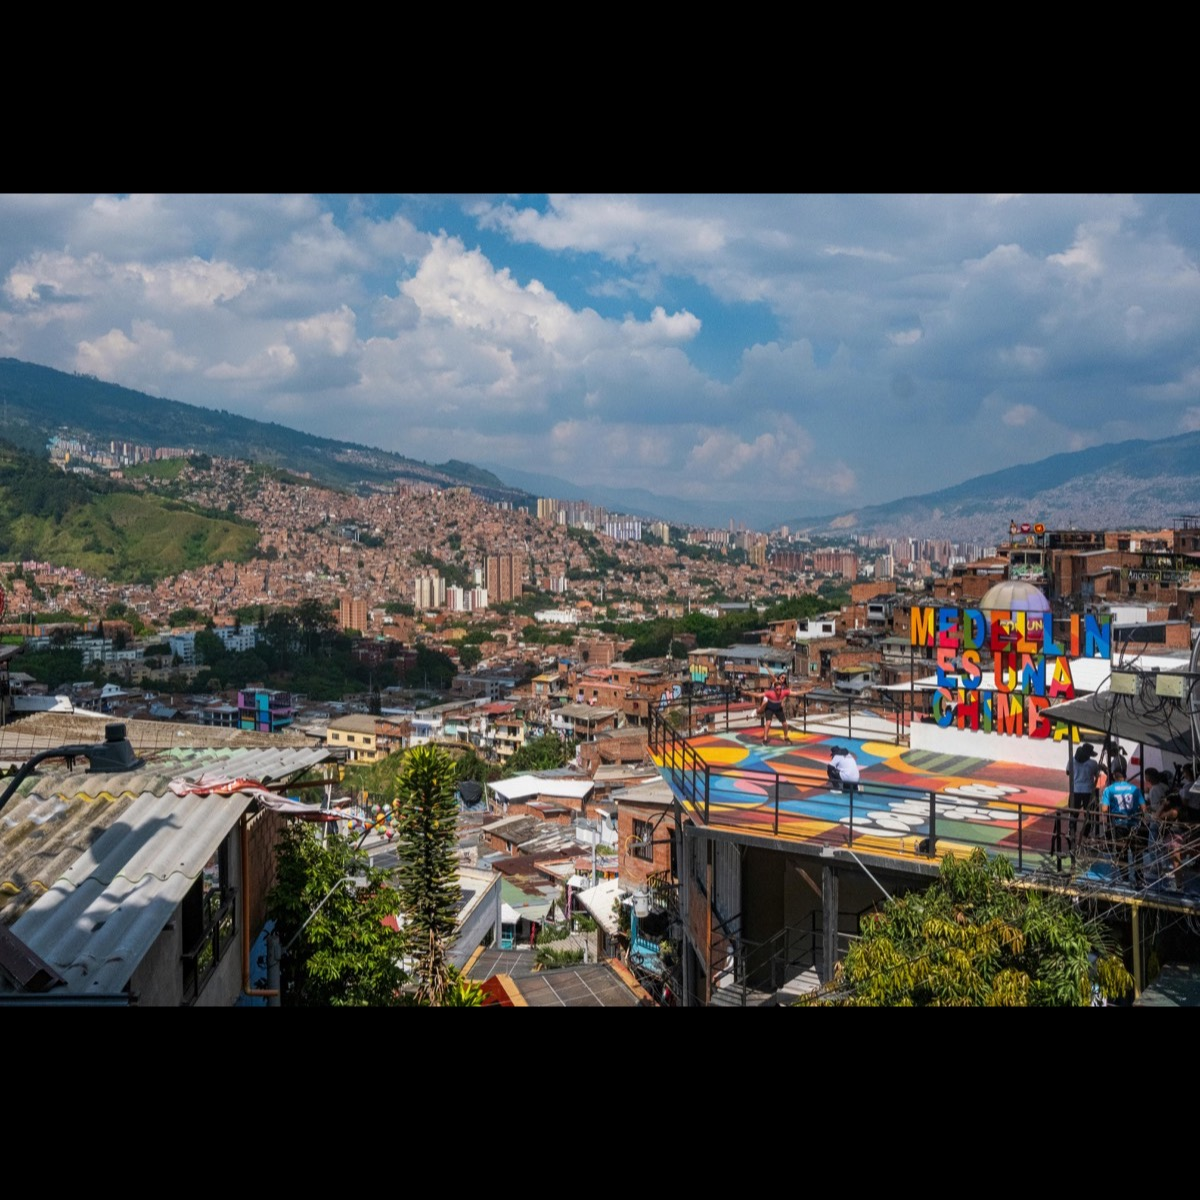
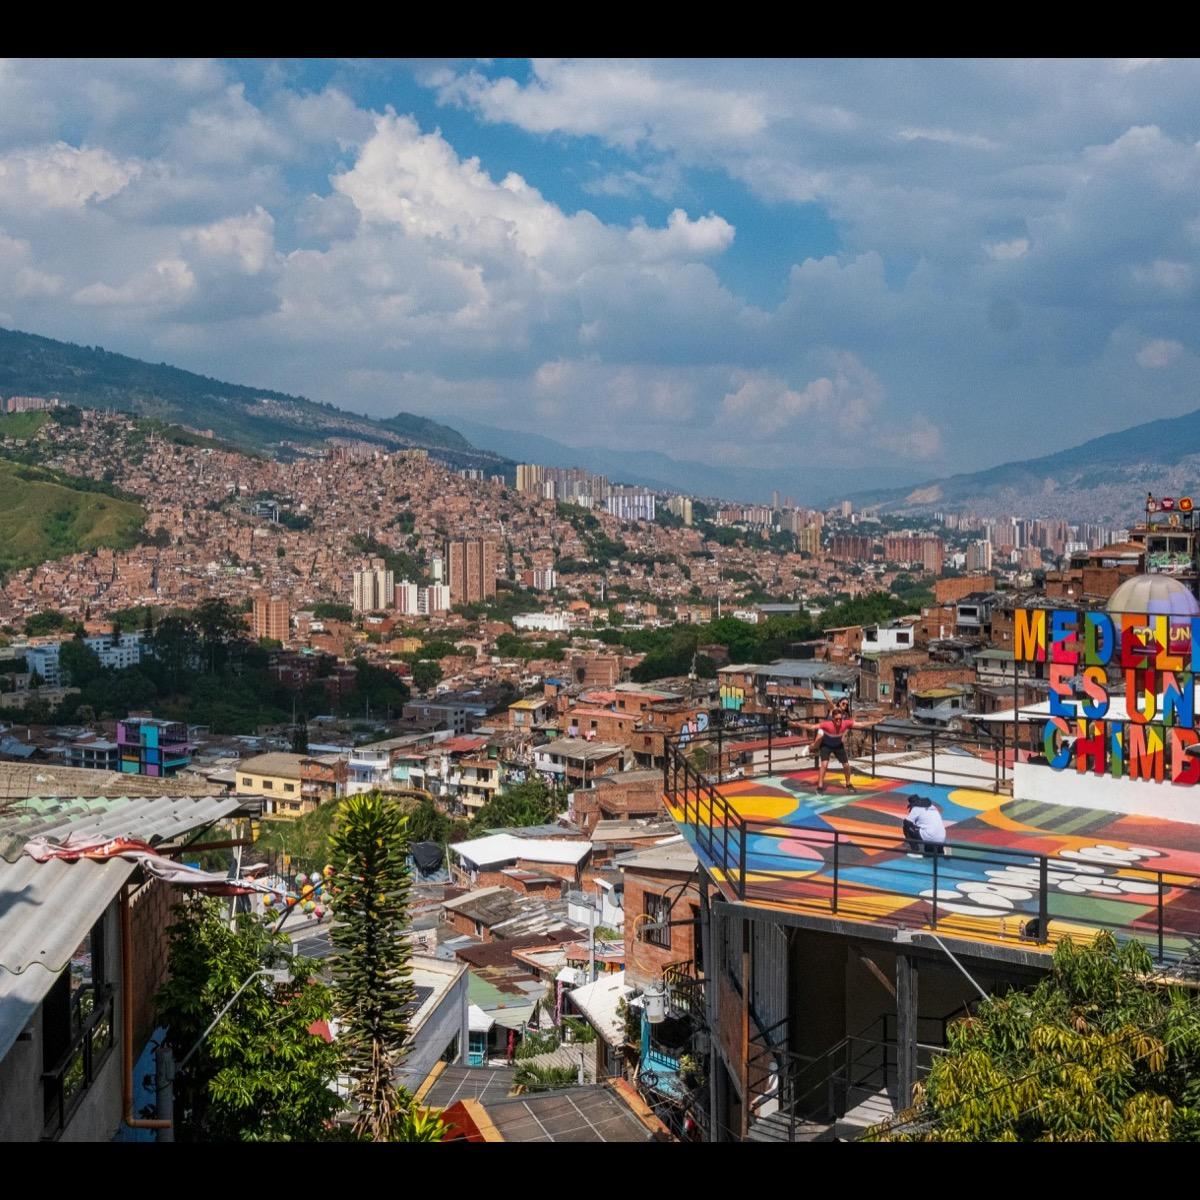
Fix: Applied zoomed crops to gallery images and updated principal image to 5.jpg

diff --git a/casa.html b/casa.html
@@ -133,7 +133,7 @@
             
             <div class="md:col-span-6 reveal">
                 <div class="parallax-wrapper h-[80vh] shadow-2xl">
-                    <img src="fotos secciones/galeria_tienda_opt/1.jpg" class="parallax-img js-parallax" data-speed="0.1">
+                    <img src="fotos secciones/galeria_tienda_opt/5.jpg" class="parallax-img js-parallax" data-speed="0.1">
                 </div>
             </div>
 
